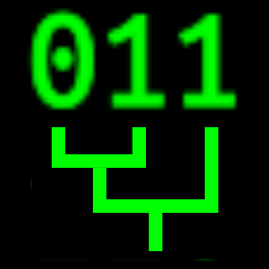
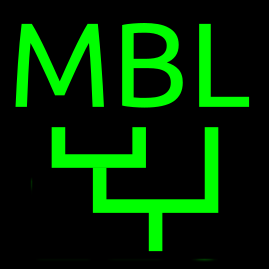
Added splash

Changed region(s): [[0.0595, 0.0297, 0.9517, 0.4164]]

diff --git a/main.cpp b/main.cpp
@@ -1,9 +1,25 @@
 #include "mainwindow.h"
+#include "version.h"
 #include <QApplication>
+#include <QSplashScreen>
 
 int main(int argc, char *argv[])
 {
     QApplication a(argc, argv);
+
+   //Close on last window close
+   a.setQuitOnLastWindowClosed(true);
+
+   //Style program with our dark style
+   //a.setStyle(new DarkStyleTheme);
+
+   QPixmap splashPixmap(":/palaeoware_logo_square.png");
+   QSplashScreen splash(splashPixmap,Qt::WindowStaysOnTopHint);
+   splash.show();
+   splash.showMessage("<font><b>" + QString(PRODUCTNAME) + "</b></font>",Qt::AlignHCenter,Qt::white);
+   a.processEvents();
+
+
     MainWindow w;
     w.show();
 

diff --git a/version.h b/version.h
@@ -1,0 +1,21 @@
+#ifndef VERSION_H
+#define VERSION_H
+
+//Software Versions
+#define MAJORVERSION 2
+#define MINORVERSION 0
+#define PATCHVERSION 0
+
+//Legal Stuff
+#define COPYRIGHT "Copyright © 2018 Mark Sutton"
+#define LICENCE "This program comes with ABSOLUTELY NO WARRANTY. This is free software, and you are welcome to redistribute it under the conditions of the GPL v3  license"
+
+//Programme Name
+#define PRODUCTNAME "MBL2017"
+//#define PRODUCTTAG "The [Tr]ee [Evo]lutionary [Sim]ulator "
+
+//Github
+#define GITHUB_URL "https://github.com/palaeoware"
+//#define GITREPOSITORY "palaeoware/trevosim"
+
+#endif // VERSION_H

diff --git a/mainwindow.cpp b/mainwindow.cpp
@@ -62,6 +62,8 @@ MainWindow::MainWindow(QWidget *parent) :
     gotsomedata=false;
 
     setupGraphs();
+
+    showMaximized();
 }
 
 MainWindow::~MainWindow()
